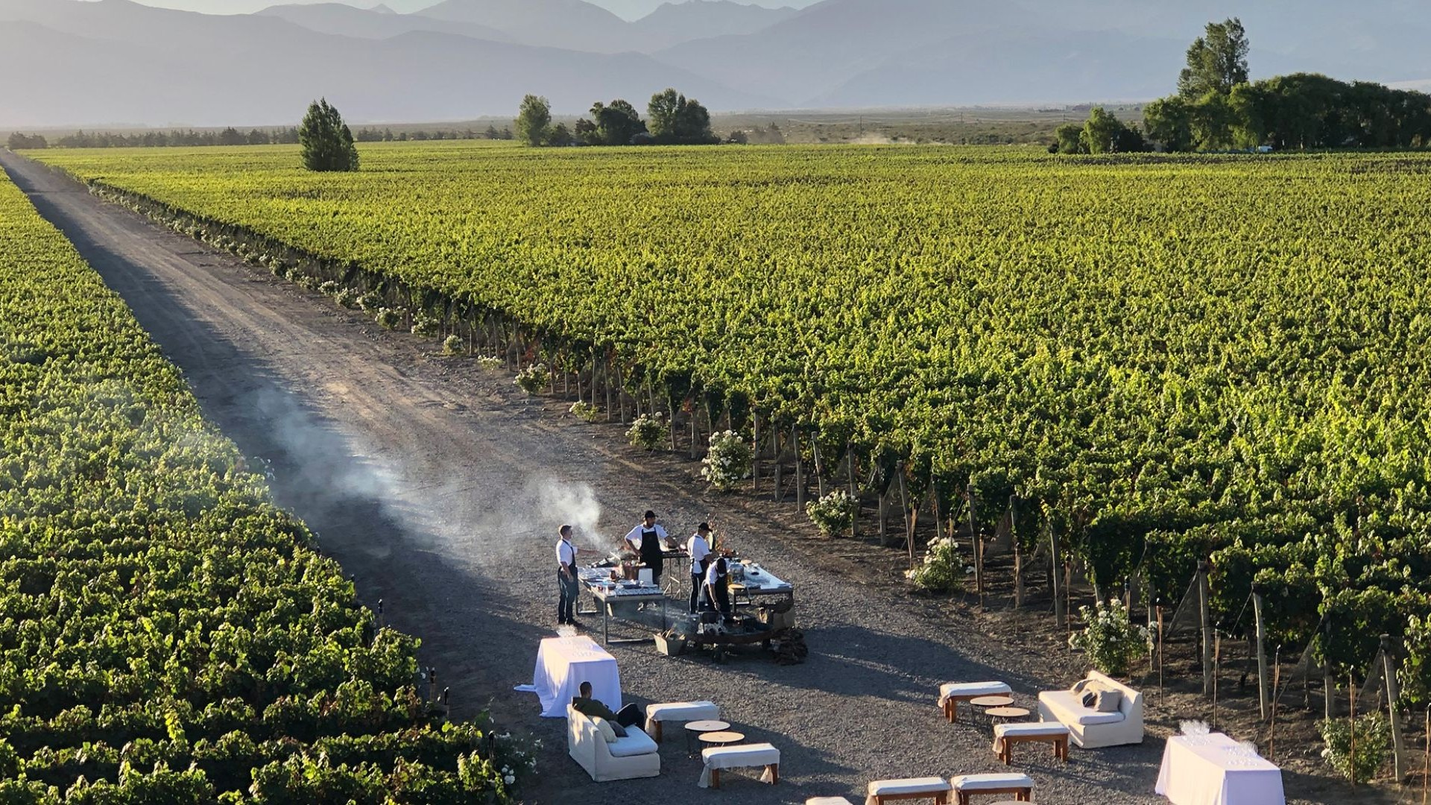
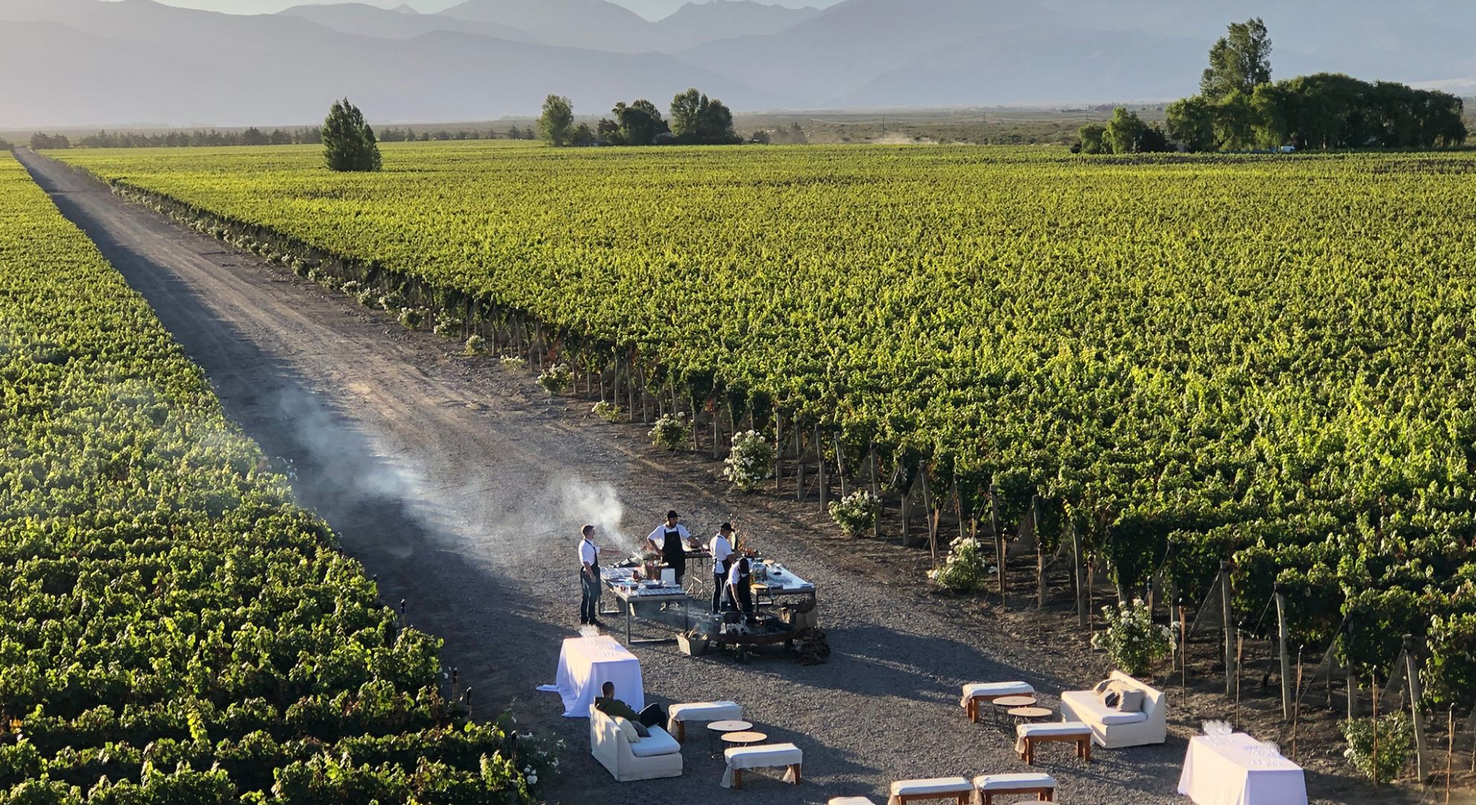
Improve hero carousel: fit viewport and optimize image positions
- Portada now fills 100vh minus header height on desktop (no scroll needed)
- Per-slide object-position for optimal framing of each image
- latin-soul-desktop.jpg replaced with 2200x970 version from design team
- Restored original portada images (3a-7a) from git history

diff --git a/src/components/portada/Portada.tsx b/src/components/portada/Portada.tsx
@@ -48,17 +48,17 @@ export default function Portada({ lang }: { lang: string }) {
         }
     };
 
-    type Slide = { name: string; desktopSrc: string; mobileSrc: string };
+    type Slide = { name: string; desktopSrc: string; mobileSrc: string; position: string };
 
     const slides: Slide[] = [
-        { name: 'latin-soul', desktopSrc: '/portada/latin-soul-desktop.jpg', mobileSrc: '/portada/latin-soul-mobile.jpg' },
-        { name: '1a', desktopSrc: '/portada/1a.jpg', mobileSrc: '/portada/1a.jpg' },
-        { name: '2a', desktopSrc: '/portada/2a.jpg', mobileSrc: '/portada/2a.jpg' },
-        { name: '3a', desktopSrc: '/portada/3a.jpg', mobileSrc: '/portada/3a.jpg' },
-        { name: '4a', desktopSrc: '/portada/4a.jpg', mobileSrc: '/portada/4a.jpg' },
-        { name: '5a', desktopSrc: '/portada/5a.jpg', mobileSrc: '/portada/5a.jpg' },
-        { name: '6a', desktopSrc: '/portada/6a.jpg', mobileSrc: '/portada/6a.jpg' },
-        { name: '7a', desktopSrc: '/portada/7a.jpg', mobileSrc: '/portada/7a.jpg' },
+        { name: 'latin-soul', desktopSrc: '/portada/latin-soul-desktop.jpg', mobileSrc: '/portada/latin-soul-mobile.jpg', position: 'top' },
+        { name: '1a', desktopSrc: '/portada/1a.jpg', mobileSrc: '/portada/1a.jpg', position: 'center' },
+        { name: '2a', desktopSrc: '/portada/2a.jpg', mobileSrc: '/portada/2a.jpg', position: 'center' },
+        { name: '3a', desktopSrc: '/portada/3a.jpg', mobileSrc: '/portada/3a.jpg', position: 'center 100%' },
+        { name: '4a', desktopSrc: '/portada/4a.jpg', mobileSrc: '/portada/4a.jpg', position: 'center 100%' },
+        { name: '5a', desktopSrc: '/portada/5a.jpg', mobileSrc: '/portada/5a.jpg', position: 'left center' },
+        { name: '6a', desktopSrc: '/portada/6a.jpg', mobileSrc: '/portada/6a.jpg', position: 'center' },
+        { name: '7a', desktopSrc: '/portada/7a.jpg', mobileSrc: '/portada/7a.jpg', position: 'center' },
     ];
 
     return (
@@ -66,9 +66,17 @@ export default function Portada({ lang }: { lang: string }) {
             initial={{ opacity: 0 }}
             animate={{ opacity: 1, transition: { duration: 0.5 } }}
             className="relative w-full embla"
+            style={!isMobile ? { height: 'calc(100vh - 110px)' } : undefined}
         >
-            <div className="w-full embla__viewport" ref={emblaRef}>
-                <div className="embla__container">
+            <div
+                className="w-full embla__viewport"
+                ref={emblaRef}
+                style={!isMobile ? { height: '100%' } : undefined}
+            >
+                <div
+                    className="embla__container"
+                    style={!isMobile ? { height: '100%' } : undefined}
+                >
                     {slides.map((slide, index) => {
                         const src = isMobile ? slide.mobileSrc : slide.desktopSrc;
 
@@ -76,11 +84,10 @@ export default function Portada({ lang }: { lang: string }) {
                             <div
                                 key={`slide${index}`}
                                 className="relative w-full cursor-pointer embla__slide"
-                                style={{
-                                    paddingBottom: isMobile
-                                        ? 'calc(100% / 1.25)' // Mobile ratio 1679:1344
-                                        : 'calc(100% / 1.78)' // Desktop ratio 1920:1080
-                                }}
+                                style={isMobile
+                                    ? { paddingBottom: 'calc(100% / 1.25)' } // Mobile ratio 1679:1344
+                                    : { height: '100%' } // Desktop: fill remaining viewport
+                                }
                                 onClick={() => handleClick(slide.name)}
                             >
                                 {/* eslint-disable-next-line @next/next/no-img-element */}
@@ -89,6 +96,7 @@ export default function Portada({ lang }: { lang: string }) {
                                     alt={`Slide ${slide.name}`}
                                     loading="lazy"
                                     className="object-cover absolute top-0 left-0 w-full h-full"
+                                    style={{ objectPosition: slide.position }}
                                 />
                             </div>
                         );
